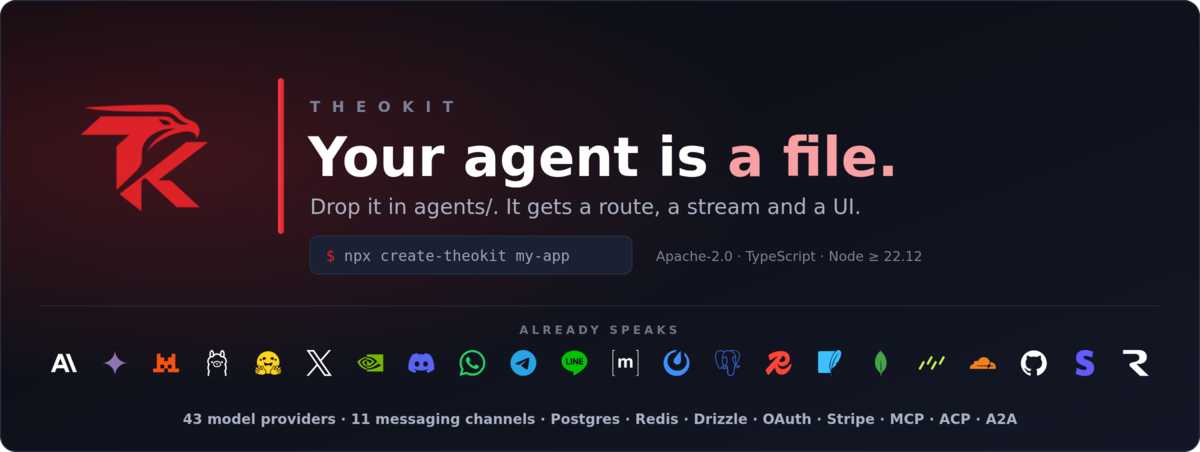
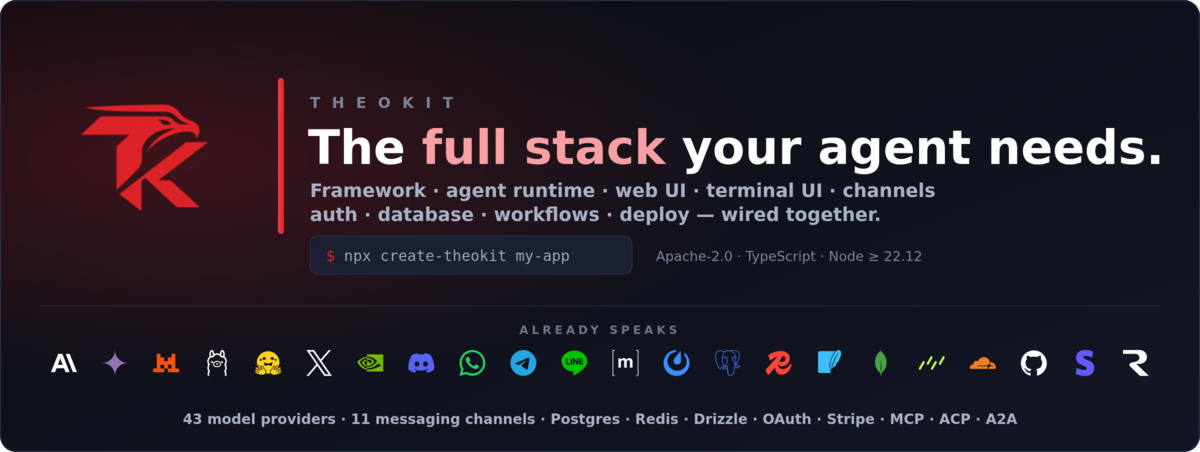
feat(profile): lead with the stack, not with the file
"Your agent is a file" described the mechanism and sold none of the value. It
is a good demo line and a bad headline: it tells a reader we made routing
convenient, when what is actually on offer is the app, the runtime, the two UI
libraries, the channels, the auth, the database and the deploy in one project.

The hero now leads with "The full stack your agent needs" and enumerates the
span underneath it. The file trick keeps its place in the quickstart, where it
belongs — as the proof of the claim rather than the claim.

The comparison gains the row that carries the argument and was missing: pages,
file routing and SSR. Theokit is the web framework; Mastra asks you to bring
one, the AI SDK pairs with Next.js, LangGraph and the OpenAI SDK do not play in
that space at all. With that row in, the closing paragraph can say the thing
plainly — every other entry is a piece of the problem, and choosing one still
leaves a web framework, a component library, a channel layer, an auth provider
and a deploy story to decide.

The exclusivity claim is scoped to the table rather than the world: "nobody in
the comparison further down ships all of it as one stack" is checkable against
the rows right there. An unbounded "only framework that..." would not be.

Changed region(s): [[0.2467, 0.2788, 0.9867, 0.4956], [0.2467, 0.2168, 0.4008, 0.2478]]

diff --git a/profile/README.md b/profile/README.md
@@ -1,6 +1,6 @@
 <div align="center">
 
-<img src="https://raw.githubusercontent.com/usetheokit/.github/HEAD/profile/assets/hero.png" alt="Theokit — your agent is a file. Drop it in agents/ and it gets a route, a stream and a UI. Already speaks to 43 model providers, 11 messaging channels, Postgres, Redis, Drizzle, OAuth, Stripe, and the MCP, ACP and A2A protocols." width="900" />
+<img src="https://raw.githubusercontent.com/usetheokit/.github/HEAD/profile/assets/hero.png" alt="Theokit — the full stack your agent needs: framework, agent runtime, web and terminal UI, channels, auth, database, workflows and deploy. Already speaks to 43 model providers, 11 messaging channels, Postgres, Redis, Drizzle, OAuth, Stripe, and the MCP, ACP and A2A protocols." width="900" />
 
 [![License](https://img.shields.io/badge/license-Apache--2.0-DE2329?style=flat-square)](https://www.apache.org/licenses/LICENSE-2.0)
 [![npm theokit](https://img.shields.io/npm/v/theokit?style=flat-square&label=theokit&color=CB3837&logo=npm&logoColor=white)](https://www.npmjs.com/package/theokit)
@@ -9,7 +9,9 @@
 [![LLM providers](https://img.shields.io/badge/LLM%20providers-43-DE2329?style=flat-square)](https://github.com/usetheokit/theokit-sdk#configuration-reference)
 [![Discord](https://img.shields.io/badge/Discord-join-5865F2?style=flat-square&logo=discord&logoColor=white)](https://discord.usetheo.dev/)
 
-**Ship the agent this afternoon. Own the runtime forever.**
+**Framework · agent runtime · web UI · terminal UI · channels · auth · database · workflows · deploy.**
+
+One stack. One `pnpm dev`. One deploy. Apache-2.0 all the way down, on your own provider keys.
 
 [**Quickstart**](#here-is-the-whole-thing) · [**What you can build**](#what-you-can-actually-build) · [**Everything in the box**](#everything-in-the-box) · [**Compare**](#so-how-is-this-different-from-what-you-already-use) · [**Repositories**](#the-repositories) · [**Contribute**](#come-build-it-with-us)
 
@@ -56,7 +58,15 @@ thread. One line here.
 npx create-theokit my-app
 ```
 
-**That is the aha.** An agent is a file. Everything below is what happens once you believe it.
+**That is the aha — and it is the small half.** The agent is a file; so is the page that renders
+it, the WebSocket beside it and the route your client imports with its types. One project, one
+`pnpm dev`, one deploy.
+
+The other half is what stands behind that file: an Apache-2.0 agent runtime with a kernel sandbox,
+a React library and a terminal library, eleven messaging channels, OAuth and encrypted sessions,
+Postgres and an ORM, workflows, evals and nine deploy targets. Each of those exists somewhere else
+as a separate product you would have integrated yourself. **Nobody in the comparison further down
+ships all of it as one stack** — that is the whole bet of this project.
 
 ---
 
@@ -232,6 +242,7 @@ claiming a gap.
 | | **Theokit** | Mastra | Vercel AI SDK | LangGraph | OpenAI Agents SDK |
 | --- | --- | --- | --- | --- | --- |
 | What it is | **Full-stack web framework** | Agent framework + server | Model & UI toolkit | Orchestration library | Agent library |
+| Pages, file routing, SSR | **Yes — it *is* the web framework** | No — bring your own | No — pairs with Next.js | No | No |
 | An agent becomes an endpoint | **The file's path is the route** | Register it in a `Mastra` instance | You write the handler | You serve the graph | You write the handler |
 | Chat / agent UI | **`@theokit/ui` + `@theokit/tui`** — web and terminal | Dev playground | [AI Elements](https://github.com/vercel/ai-elements) — official, shadcn-based | [Agent Chat UI](https://github.com/langchain-ai/agent-chat-ui) — official app | — |
 | Messaging channels | **11 first-party gateways** | Via Vercel's `@chat-adapter/*` | [`@chat-adapter/*`](https://www.npmjs.com/org/chat-adapter) — official | Not in its docs | Not in its docs |
@@ -245,10 +256,16 @@ neither UI nor channels are ours alone. And they are far bigger: the AI SDK does
 downloads a month against our 19 thousand. If you want the largest ecosystem and the most answers
 already written, that is where they are.
 
-Two things here are genuinely different. **A file is the route** — no registry, no instance to
-construct, no handler to write. And the whole path is first-party in one stack: the endpoint, the
-web UI, the terminal UI, eleven channels and the runtime, versioned together, with the runtime
-Apache-2.0 on your own keys.
+**What is genuinely ours is the span.** Every other row in that table is a piece of the problem:
+an orchestrator, a model toolkit, an agent library, a framework-plus-server. Theokit is the app —
+pages, file routing and SSR — *and* the agent runtime under it, *and* the React library that
+renders the thread, *and* the terminal library, *and* the eleven channels, *and* the OAuth, *and*
+the database layer, *and* the nine deploy targets. One `pnpm install`, one version, one repository
+graph, Apache-2.0 throughout.
+
+Pick any of the others and you are still choosing a web framework, a component library, a channel
+layer, an auth provider and a deploy story — five decisions, five integrations, five things to keep
+in step. That is the work this replaces.
 
 *Verified against each project's published documentation and npm metadata on 2026-08-18, and this
 table was wrong in four cells before that check. If a cell is still wrong, open a PR — we would
